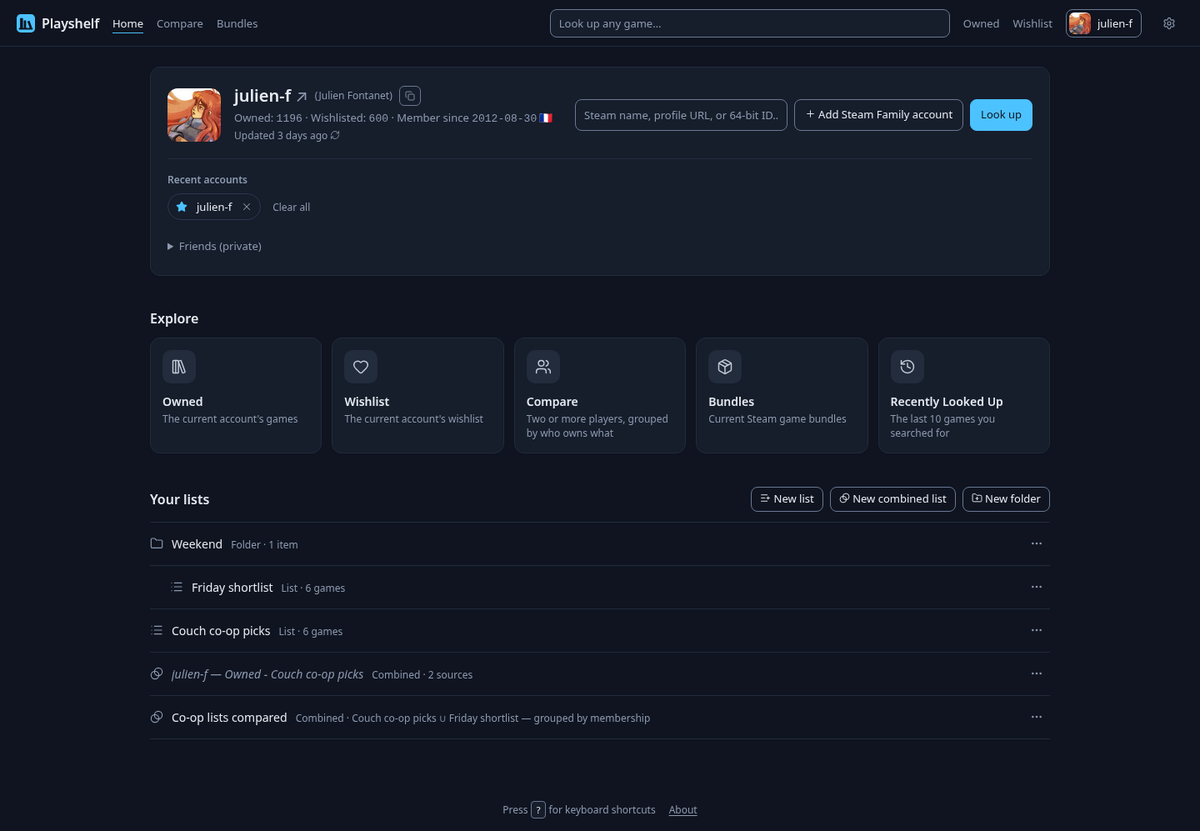
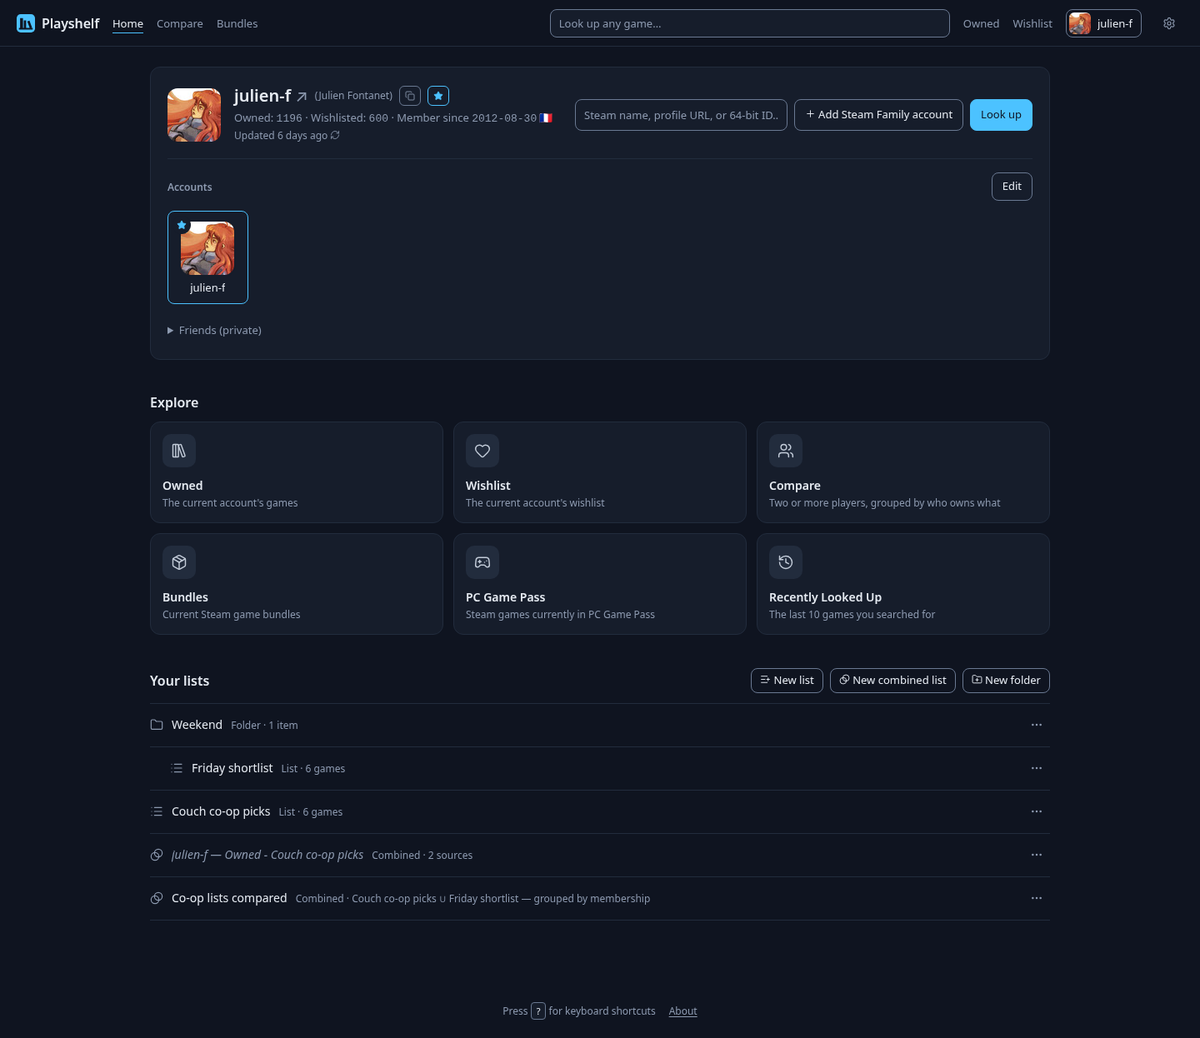
Lay Home's Explore cards out as two rows of three
PC Game Pass made six cards, which the auto-fill grid wrapped as five
plus one on desktop, leaving Recently Looked Up alone on a row. Also
re-shoots the Home screenshot with the new card.

diff --git a/e2e/scenarios.spec.ts b/e2e/scenarios.spec.ts
@@ -81,6 +81,17 @@ test('A1 edge: an Explore card opens its list from anywhere on the card', async 
   await expect(page).toHaveURL(/\/lists\/wishlist$/);
 });
 
+test('A1 edge: the Explore cards fill even rows, three wide past phone width', async ({ page }, testInfo) => {
+  await asPlayer(page, ALICE);
+  await page.goto('/');
+  const cards = page.locator('.explore-card');
+  await expect(cards).toHaveCount(6);
+  const tops = await cards.evaluateAll((els) => els.map((el) => Math.round(el.getBoundingClientRect().top)));
+  const perRow = testInfo.project.name === 'phone' ? 1 : 3;
+  const rowSizes = [...new Set(tops)].map((top) => tops.filter((t) => t === top).length);
+  expect(rowSizes).toEqual(Array(6 / perRow).fill(perRow));
+});
+
 test('A1 edge: native controls render dark, like the page around them', async ({ page }) => {
   await page.goto('/');
   await expect(page.locator(':root')).toHaveCSS('color-scheme', 'dark');

diff --git a/public/styles/components.css b/public/styles/components.css
@@ -4145,7 +4145,8 @@
   }
   .explore-cards {
     display: grid;
-    grid-template-columns: repeat(auto-fill, minmax(180px, 1fr));
+    /* Six cards: an auto-fill grid wrapped them 5 + 1. */
+    grid-template-columns: repeat(3, minmax(0, 1fr));
     gap: 12px;
   }
   .explore-card {

diff --git a/docs/user/features.md b/docs/user/features.md
@@ -55,7 +55,7 @@ A private profile or wishlist looks identical to an empty one from the outside; 
   - The play style and story games each need 8 played games (an hour or more). **Why these?** opens the evidence in place: under each tag, the played games counting most toward it with their hours; in the story tile, each story game's hours against its main story (the 5 most played that reached it, then those that fell short); and a folded **How it's counted**. Every game opens its panel.
 - **Filtering by Steam tag** (the Tags column, or a tag in a game's panel) ranks the matches by **Tag match**: how strongly players tagged each game with them, from 100% (its top tag) down. With several tags it's their average, or on the filter's **All** mode the weakest one, so a game must carry them all. Filter Tag match (e.g. 50% and up) to keep only the games where the tag really matters. Clearing the tag filter restores the previous sort and drops that Tag match filter. In the game's panel, a gauge under each Steam tag shows that same strength.
 
-![The home page: the current account's card, the Explore cards (Owned, Wishlist, Compare, Bundles, Recently Looked Up), and your own folder tree of lists](../images/home-lists.png)
+![The home page: the current account's card, the Explore cards (Owned, Wishlist, Compare, Bundles, PC Game Pass, Recently Looked Up), and your own folder tree of lists](../images/home-lists.png)
 
 ### Combining lists
 

diff --git a/CHANGELOG.md b/CHANGELOG.md
@@ -42,6 +42,7 @@ The format is based on [Keep a Changelog](https://keepachangelog.com/en/1.0.0/).
 - A comparison shows each player as a card with avatar and archetype, and what they share with game art
 - Suggested views show only the columns that matter to them, the one they sort or filter on first
 - The screenshot and trailer viewer gives the screen to the media: its controls show only for the mouse or a tap, it follows photo and video players' keys and gestures, and trailers remember muting and offer a replay.
+- Home's Explore cards sit in two even rows of three
 
 ### Fixed
 
